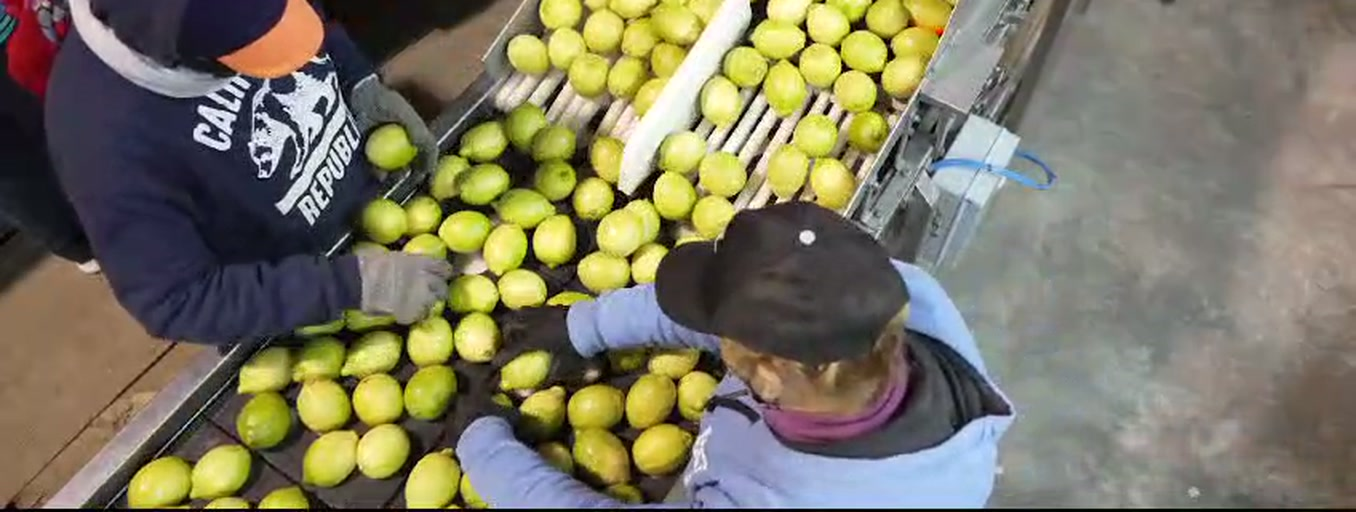
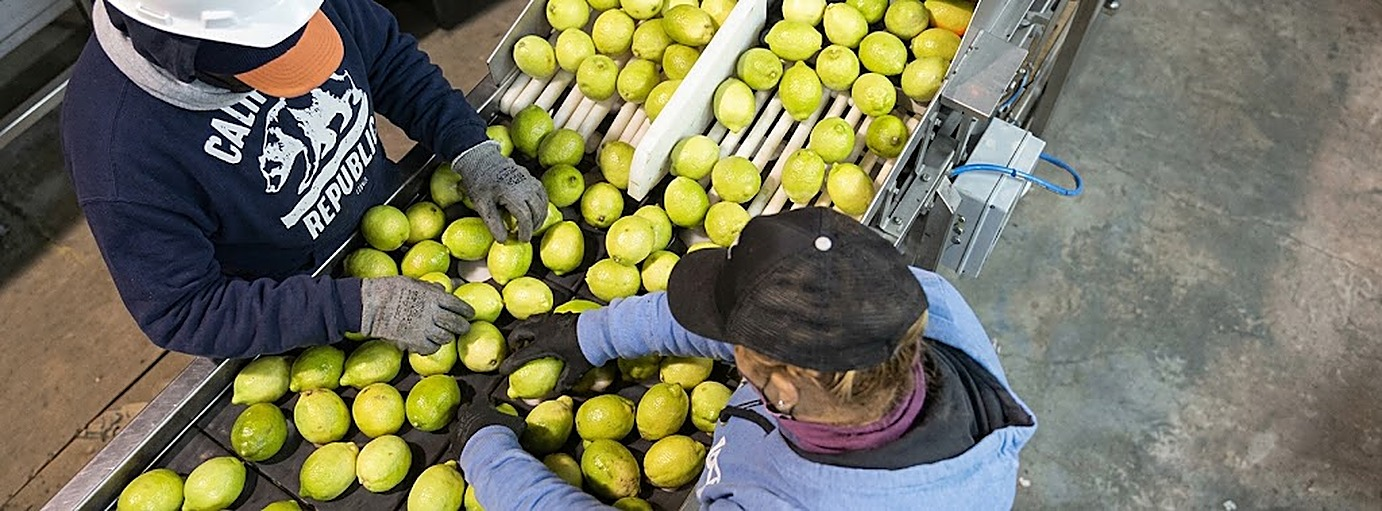
Substitui foto do card "Maçã / pera" por imagem de melhor qualidade
Usa a mesma foto de câmera real (linha de entrada) já aplicada na
etapa "Cinta de entrada de fruta", agora no card de aplicação
Maçã/pera na página Aplicações e na home. Cache-bust (?v=2).

diff --git a/aplicacoes/index.html b/aplicacoes/index.html
@@ -53,7 +53,7 @@
     <div class="container">
       <div class="grid-3">
         <div class="card reveal">
-          <div class="card-img"><img src="/assets/img/aplicacao-maca.jpg" alt="Fruta redonda sendo manipulada na linha RUNPack" loading="lazy"></div>
+          <div class="card-img"><img src="/assets/img/aplicacao-maca.jpg?v=2" alt="Fruta redonda sendo manipulada na linha RUNPack" loading="lazy"></div>
           <div class="card-body"><h3>Maçã / pera</h3><p>Captação por ventosas sem impacto na casca, mantendo o valor comercial da fruta.</p></div>
         </div>
         <div class="card reveal">

diff --git a/index.html b/index.html
@@ -169,7 +169,7 @@
       </div>
       <div class="bento-grid reveal">
         <div class="bento-card">
-          <div class="bento-graphic"><img src="/assets/img/aplicacao-maca.jpg" alt="Fruta redonda sendo manipulada na linha RUNPack" loading="lazy"></div>
+          <div class="bento-graphic"><img src="/assets/img/aplicacao-maca.jpg?v=2" alt="Fruta redonda sendo manipulada na linha RUNPack" loading="lazy"></div>
           <div class="bento-body">
             <span class="bento-eyebrow">Fruta</span>
             <h3>Maçã / pera</h3>
